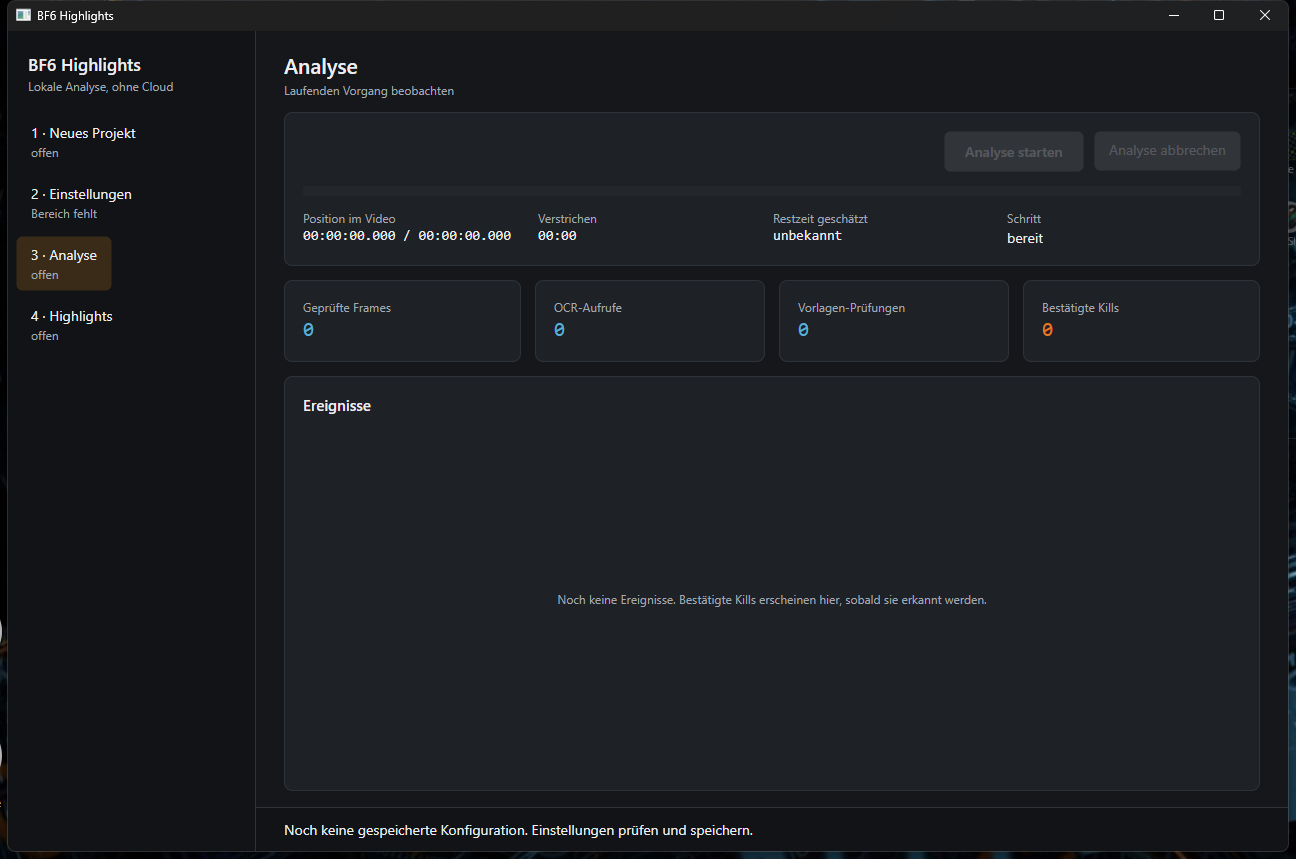
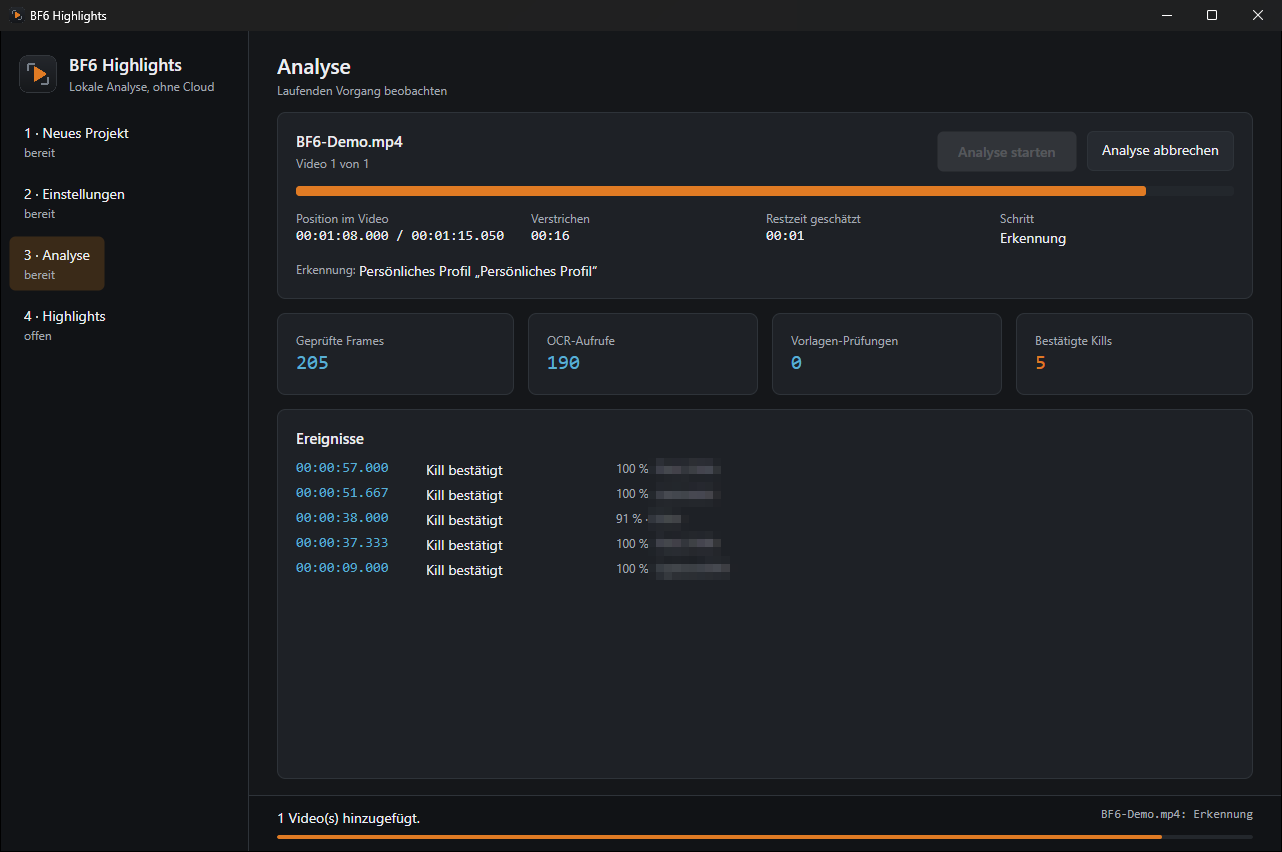
Refresh the README screenshots and describe the new deduplication
Generated with AI

diff --git a/README.md b/README.md
@@ -24,10 +24,16 @@ Entscheidend ist danach die **Seite**, auf der der eigene Name steht. `EigenerNa
 ⟶ Gegner` ist ein eigener Kill. `Gegner ⟶ Waffe ⟶ EigenerName` ist der eigene Tod und wird
 verworfen. Den Namen irgendwo im Killfeed zu finden genügt ausdrücklich nicht.
 
+![Killfeed mit eigenem Kill, fremde Namen unkenntlich gemacht](.github/media/beispiel-killfeed.png)
+
 Weil eine Killfeed-Zeile mehrere Sekunden stehen bleibt, wird derselbe Kill dutzendfach
-erkannt. Eine Zusammenfassung über Spielername, Gegner und Zeilentext innerhalb eines
-Zeitfensters macht daraus genau ein Ereignis — zwei schnelle Kills auf denselben Gegner
-bleiben aber zwei.
+erkannt, oft mit anders gelesenem Namen (`darkrabbit`, `derkrabbit`). Innerhalb eines
+Zeitfensters gilt ein Treffer deshalb als derselbe Kill, wenn der Gegner einer bereits
+gelesenen Schreibweise ähnelt oder gar nicht lesbar war; denselben Gegner kann man in
+diesen Sekunden nicht zweimal töten. Verschiedene Gegner bleiben getrennte Kills.
+
+Pings und Markierungen (`… hat eine Gefahr gepingt`, `Ping abgebrochen`) stehen im selben
+Killfeed und tragen den eigenen Namen. Sie werden als Satz erkannt und verworfen.
 
 Aus den Zeitpunkten entstehen Clip-Abschnitte, standardmäßig drei Sekunden davor und zwei
 danach. Liegen Abschnitte dicht beieinander, werden sie zu einem Mehrfachkill-Clip
@@ -70,6 +76,8 @@ ersten Start SmartScreen; über „Weitere Informationen“ lässt es sich trotz
    gewählten Clips.
 
 ![Analyse](.github/media/oberflaeche-analyse.png)
+
+![Highlights prüfen und exportieren](.github/media/oberflaeche-highlights.png)
 
 Die Analyse selbst schreibt nie Videodateien, sondern nur Berichte. Clips entstehen erst
 beim Export. Vorhandene Clips werden nie überschrieben, Quellvideos nie verändert.
@@ -183,9 +191,10 @@ gegen die Originalausgabe geprüft.
 
 Ehrlich benannt gehört dazu:
 
-- **Die Erkennungsgüte ist nicht abgenommen.** Dafür fehlt ein ausreichend großer, von Hand
-  beschrifteter Prüfsatz. Auf echtem Material entstehen derzeit noch mehrere Kandidaten für
-  denselben Kill, wenn die Texterkennung den Namen unterschiedlich liest.
+- **Die Erkennungsgüte ist nicht abgenommen.** Auf drei Aufnahmen mit 104 von Hand
+  markierten Kills findet die Erkennung 87 von 88 Kill-Zeitpunkten und meldet 163 statt
+  früher 282 Kandidaten. Ein Teil davon sind echte, nicht markierte Kills, ein Teil noch
+  doppelte Lesungen stark verstümmelter Namen.
 - **Gemessen ist bisher nur ein kurzer Ausschnitt.** Dort war die C#-Fassung rund 17-mal
   schneller als die Python-Fassung und brauchte ein Siebtel des Speichers. Ein Langlauf über
   Stunden steht aus.
